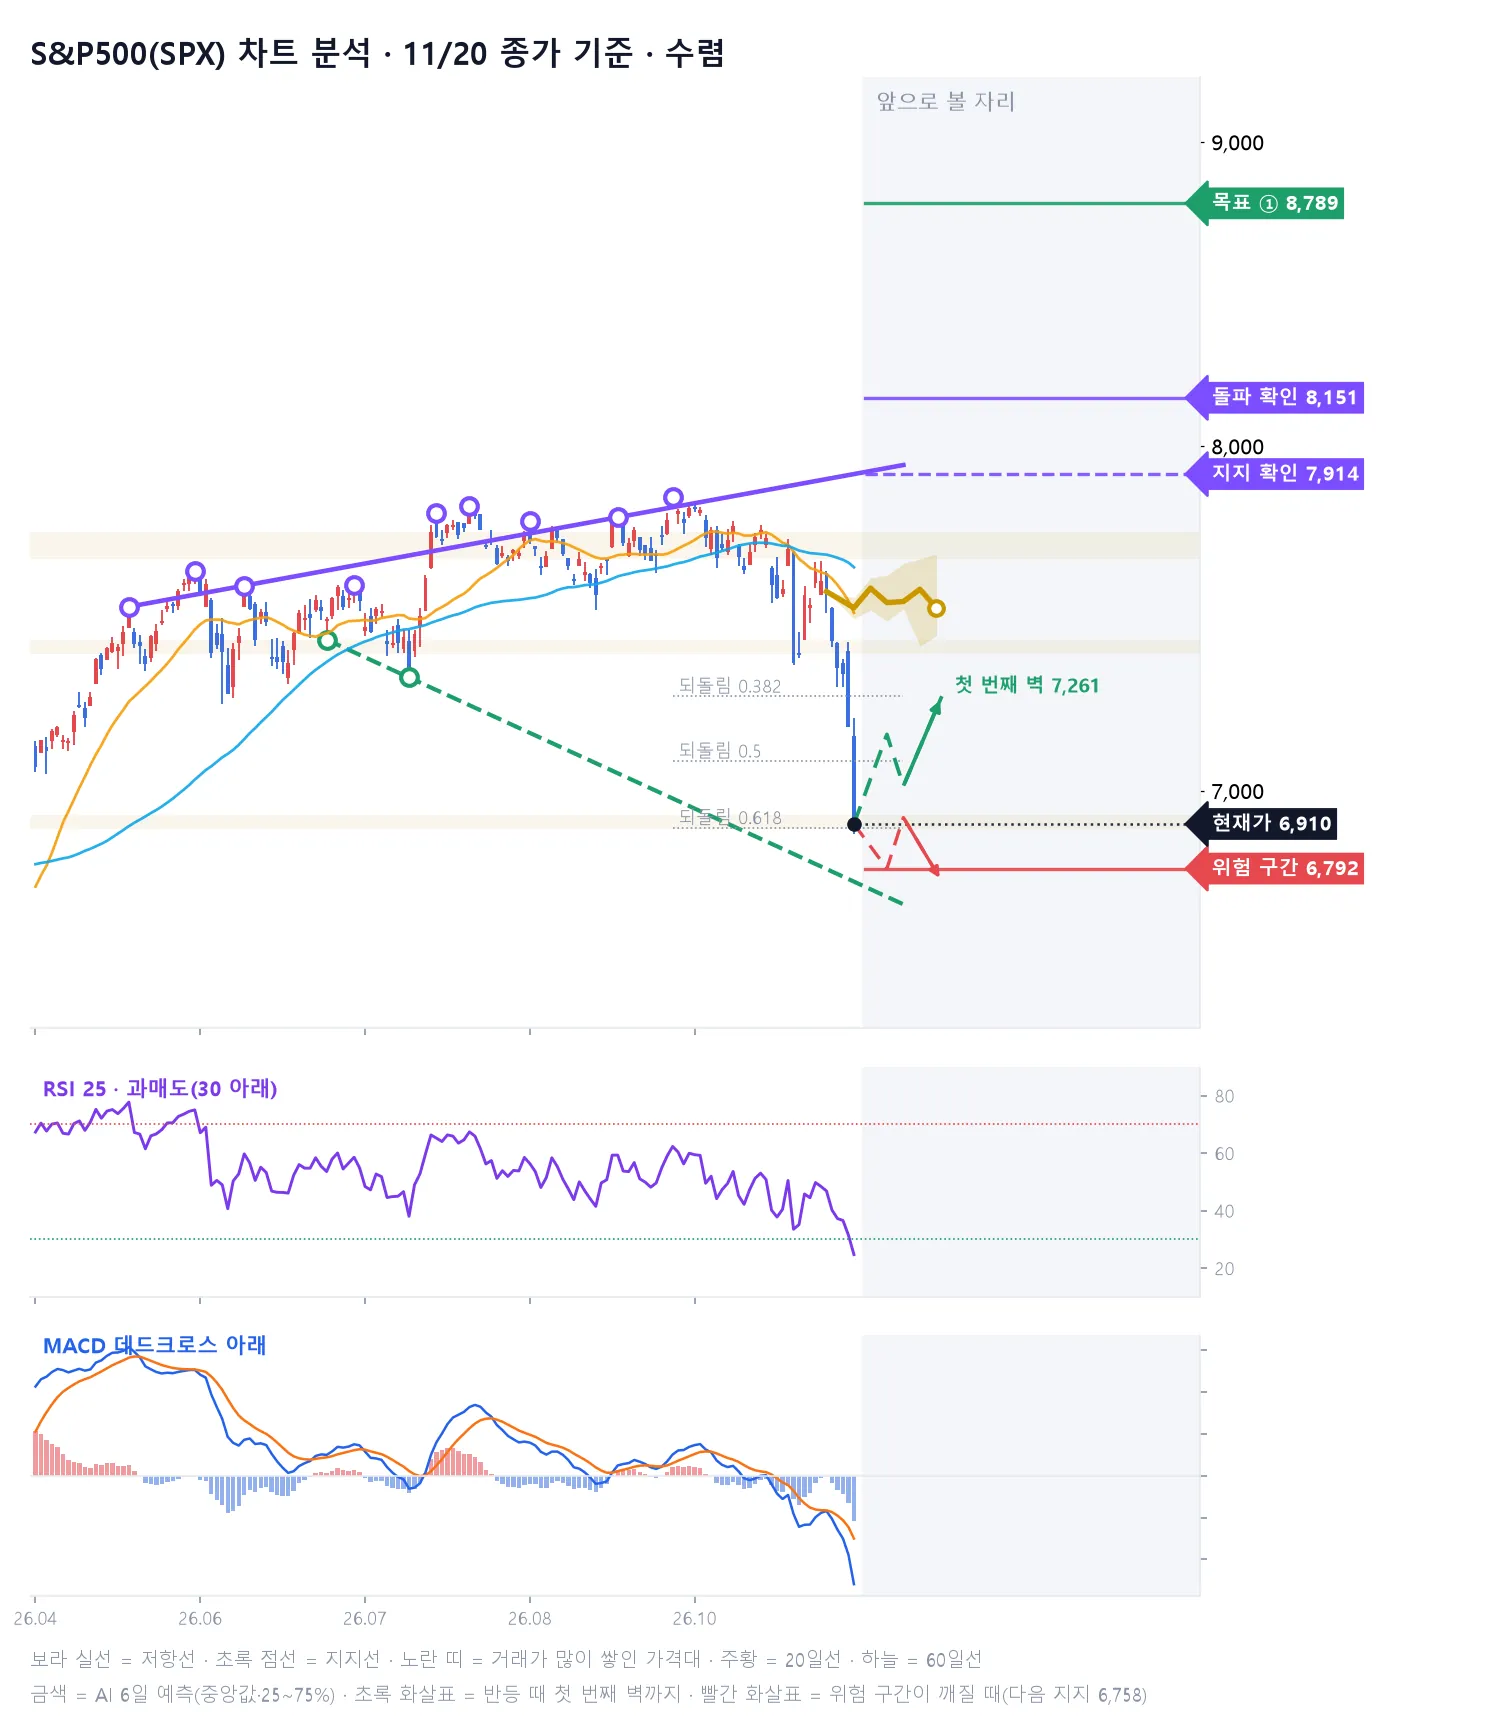
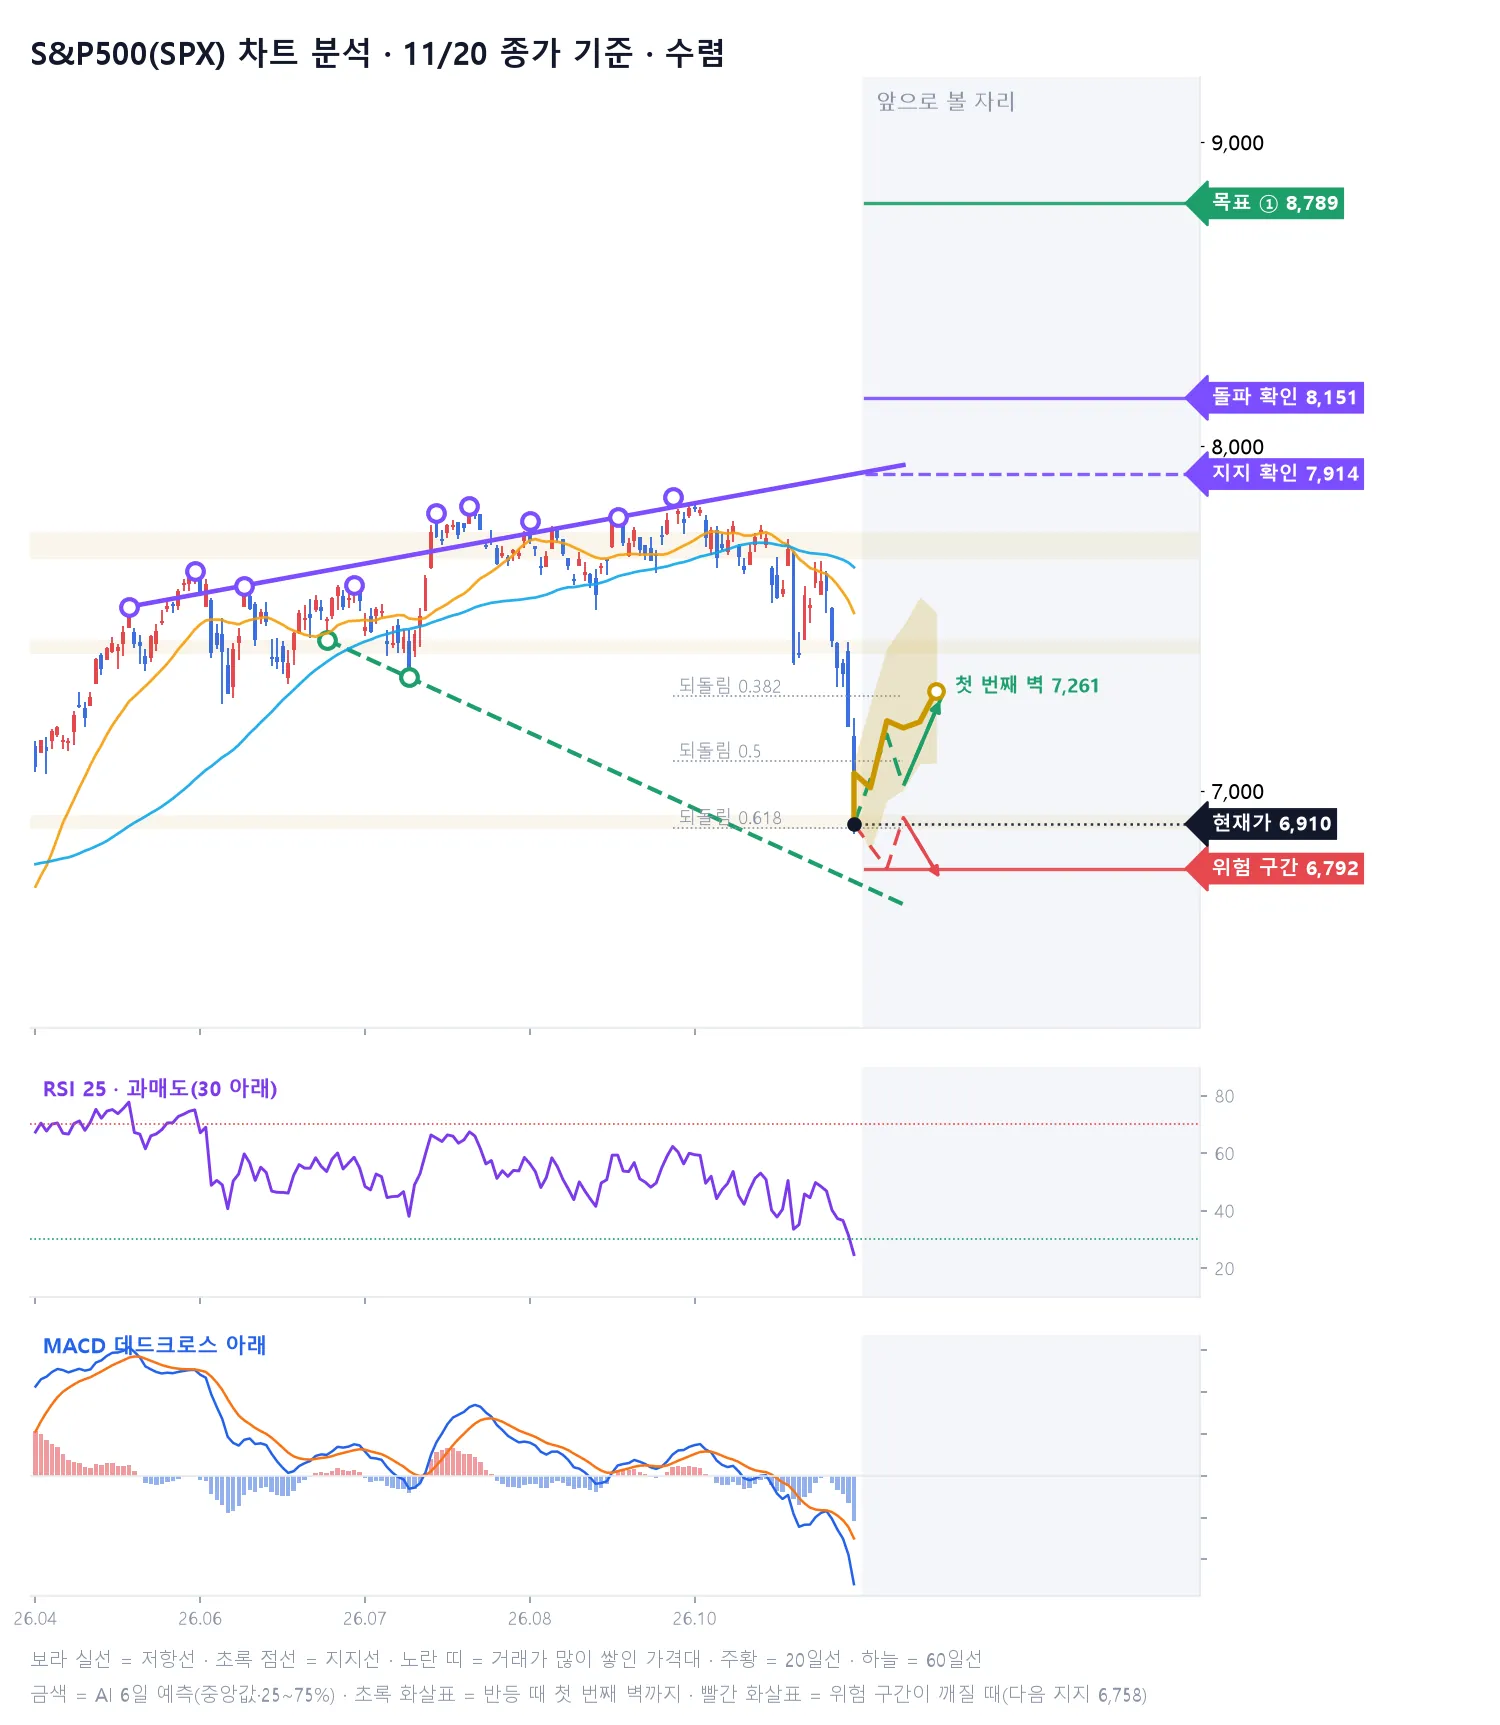
S&P500 무료 페이지: 11/14 예측 → 11/21 최신 예측으로 다시 만듦

Changed region(s): [[0.552, 0.3072, 0.644, 0.4916]]

diff --git a/s/SP500/index.html b/s/SP500/index.html
@@ -3,13 +3,13 @@
 <head>
 <meta charset="utf-8">
 <meta name="viewport" content="width=device-width, initial-scale=1">
-<title>S&amp;P500(SPX) 전망 11/14 · AI 52개 모델 6일 예측 | AI 신호등</title>
-<meta name="description" content="11/14 기준 S&amp;P500(SPX) 다음 거래일 AI 판정은 &#x27;하락&#x27;. 52개 모델 중 상승 6 · 하락 42. 6일 뒤 예측 중앙값 -0.6%. 52개 예측 모델의 6일 가격 흐름을 신호등으로 정리했어요.">
+<title>S&amp;P500(SPX) 전망 11/21 · AI 52개 모델 6일 예측 | AI 신호등</title>
+<meta name="description" content="11/21 기준 S&amp;P500(SPX) 다음 거래일 AI 판정은 &#x27;상승&#x27;. 52개 모델 중 상승 40 · 하락 10. 6일 뒤 예측 중앙값 +5.3%. 52개 예측 모델의 6일 가격 흐름을 신호등으로 정리했어요.">
 <link rel="canonical" href="https://www.ai-sinhodeung.co.kr/s/SP500/">
 <meta property="og:type" content="article">
 <meta property="og:site_name" content="AI 신호등">
-<meta property="og:title" content="S&amp;P500(SPX) 전망 11/14 · AI 52개 모델 6일 예측 | AI 신호등">
-<meta property="og:description" content="11/14 기준 S&amp;P500(SPX) 다음 거래일 AI 판정은 &#x27;하락&#x27;. 52개 모델 중 상승 6 · 하락 42. 6일 뒤 예측 중앙값 -0.6%. 52개 예측 모델의 6일 가격 흐름을 신호등으로 정리했어요.">
+<meta property="og:title" content="S&amp;P500(SPX) 전망 11/21 · AI 52개 모델 6일 예측 | AI 신호등">
+<meta property="og:description" content="11/21 기준 S&amp;P500(SPX) 다음 거래일 AI 판정은 &#x27;상승&#x27;. 52개 모델 중 상승 40 · 하락 10. 6일 뒤 예측 중앙값 +5.3%. 52개 예측 모델의 6일 가격 흐름을 신호등으로 정리했어요.">
 <meta property="og:url" content="https://www.ai-sinhodeung.co.kr/s/SP500/">
 <meta property="og:image" content="https://www.ai-sinhodeung.co.kr/assets/og-image.png">
 <meta property="og:locale" content="ko_KR">
@@ -76,7 +76,7 @@
 .ca-g.npn { border-color: #C99700 !important; background: #FFF8E1; } .ca-g.npn b { color: #A87E00 !important; }
 .ca-flash { animation: caf 1.6s ease-out; } @keyframes caf { 0%, 40% { box-shadow: 0 0 0 3px #C99700; } 100% { box-shadow: 0 0 0 0 transparent; } }
 </style>
-<script type="application/ld+json">{"@context": "https://schema.org", "@type": "Article", "headline": "S&P500(SPX) 전망 11/14 · AI 52개 모델 6일 예측 | AI 신호등", "description": "11/14 기준 S&P500(SPX) 다음 거래일 AI 판정은 '하락'. 52개 모델 중 상승 6 · 하락 42. 6일 뒤 예측 중앙값 -0.6%. 52개 예측 모델의 6일 가격 흐름을 신호등으로 정리했어요.", "dateModified": "2026-11-14", "inLanguage": "ko", "url": "https://www.ai-sinhodeung.co.kr/s/SP500/", "publisher": {"@type": "Organization", "name": "AI 신호등", "url": "https://www.ai-sinhodeung.co.kr"}}</script>
+<script type="application/ld+json">{"@context": "https://schema.org", "@type": "Article", "headline": "S&P500(SPX) 전망 11/21 · AI 52개 모델 6일 예측 | AI 신호등", "description": "11/21 기준 S&P500(SPX) 다음 거래일 AI 판정은 '상승'. 52개 모델 중 상승 40 · 하락 10. 6일 뒤 예측 중앙값 +5.3%. 52개 예측 모델의 6일 가격 흐름을 신호등으로 정리했어요.", "dateModified": "2026-11-21", "inLanguage": "ko", "url": "https://www.ai-sinhodeung.co.kr/s/SP500/", "publisher": {"@type": "Organization", "name": "AI 신호등", "url": "https://www.ai-sinhodeung.co.kr"}}</script>
 </head>
 <body class="home landing">
 <header class="topbar">
@@ -89,41 +89,41 @@
 
 <main class="pk">
   <section class="pk-hero on-night">
-    <small>미국 주식 · 11/14 예측 · AI 모델 52개</small>
+    <small>미국 주식 · 11/21 예측 · AI 모델 52개</small>
     <h1>S&amp;P500(SPX) 전망</h1>
   </section>
 
   <section class="card">
     <div class="pk-verdict">
-      <div class="lamp dn" aria-hidden="true"><i></i><i></i><i></i></div>
+      <div class="lamp up" aria-hidden="true"><i></i><i></i><i></i></div>
       <div><small style="color:var(--muted);font-size:12.5px">다음 거래일(D+1) AI 판정</small><br>
-        <b class="v-dn">하락</b><br><span>52개 모델 중 상승 6 · 하락 42</span></div>
+        <b class="v-up">상승</b><br><span>52개 모델 중 상승 40 · 하락 10</span></div>
     </div>
-    <p style="margin:10px 0 0;color:var(--sub);font-size:14px">참고: 박스권 횡보</p>
+    
   </section>
 
   <section class="card">
     <h3 style="margin-bottom:6px">6일 예측 흐름</h3>
-    <p class="hint" style="margin:0 0 10px;font-size:13px">기준가 7,562$ · 6일 뒤 예측 중앙값 <b class="v-dn">-0.6%</b></p>
+    <p class="hint" style="margin:0 0 10px;font-size:13px">기준가 6,910$ · 6일 뒤 예측 중앙값 <b class="v-up">+5.3%</b></p>
     <svg viewBox="0 0 520 300" role="img" aria-label="최근 8일 종가와 앞으로 6일 예측 범위" class="pk-chart">
   <line x1="277.1" y1="30" x2="277.1" y2="266" stroke="#C5CAD6" stroke-dasharray="4 4"/>
-  <polygon points="277.1,123.4 315.2,134.9 353.4,99.0 391.5,94.8 429.7,73.3 467.8,65.1 506.0,56.7 506.0,201.6 467.8,219.0 429.7,153.9 391.5,176.0 353.4,156.5 315.2,171.7 277.1,123.4" fill="#2463EB" fill-opacity=".14"/>
-  <polyline points="10.0,46.3 48.2,249.7 86.3,235.7 124.5,130.5 162.6,148.1 200.8,88.3 238.9,104.7 277.1,123.4" fill="none" stroke="#12182B" stroke-width="2.4" stroke-linejoin="round"/>
-  <polyline points="277.1,123.4 315.2,152.4 353.4,117.3 391.5,143.1 429.7,141.2 467.8,119.4 506.0,152.5" fill="none" stroke="#2463EB" stroke-width="3" stroke-linejoin="round"/>
-  <circle cx="277.1" cy="123.4" r="4.5" fill="#12182B"/>
-  <circle cx="506.0" cy="152.5" r="6" fill="#fff" stroke="#2463EB" stroke-width="3"/>
-  <text x="506" y="20" text-anchor="end" font-size="18" font-weight="700" fill="#2463EB">6일 뒤 -0.6%</text>
-  <text x="10" y="290" font-size="15" fill="#8A93A6">11-04</text>
-  <text x="277.1" y="290" font-size="15" fill="#12182B" text-anchor="middle" font-weight="600">11-13 기준</text>
-  <text x="506" y="290" font-size="15" fill="#8A93A6" text-anchor="end">11-19</text>
+  <polygon points="277.1,230.7 315.2,186.1 353.4,144.7 391.5,104.0 429.7,86.9 467.8,65.4 506.0,76.9 506.0,187.7 467.8,188.2 429.7,206.6 391.5,214.2 353.4,249.7 315.2,226.7 277.1,230.7" fill="#E5383B" fill-opacity=".14"/>
+  <polyline points="10.0,46.3 48.2,53.3 86.3,61.3 124.5,99.0 162.6,118.8 200.8,123.2 238.9,161.6 277.1,230.7" fill="none" stroke="#12182B" stroke-width="2.4" stroke-linejoin="round"/>
+  <polyline points="277.1,230.7 315.2,194.9 353.4,205.3 391.5,157.4 429.7,162.5 467.8,158.1 506.0,135.3" fill="none" stroke="#E5383B" stroke-width="3" stroke-linejoin="round"/>
+  <circle cx="277.1" cy="230.7" r="4.5" fill="#12182B"/>
+  <circle cx="506.0" cy="135.3" r="6" fill="#fff" stroke="#E5383B" stroke-width="3"/>
+  <text x="506" y="20" text-anchor="end" font-size="18" font-weight="700" fill="#E5383B">6일 뒤 +5.3%</text>
+  <text x="10" y="290" font-size="15" fill="#8A93A6">11-11</text>
+  <text x="277.1" y="290" font-size="15" fill="#12182B" text-anchor="middle" font-weight="600">11-20 기준</text>
+  <text x="506" y="290" font-size="15" fill="#8A93A6" text-anchor="end">11-26</text>
 </svg>
-    <div class="pk-legend"><span><i style="background:#12182B"></i>실제 종가</span><span><i style="background:#2463EB"></i>모델 예측 중앙값</span><span><i style="background:#2463EB;height:8px;opacity:.2"></i>모델 25~75% 범위</span></div>
+    <div class="pk-legend"><span><i style="background:#12182B"></i>실제 종가</span><span><i style="background:#E5383B"></i>모델 예측 중앙값</span><span><i style="background:#E5383B;height:8px;opacity:.2"></i>모델 25~75% 범위</span></div>
   </section>
 
 
   <section class="card pk-cta">
     <b style="font-size:17px">📐 차트로 보면 어떤 자리일까?</b>
-    <p style="font-size:15px;color:var(--ink)">📊 차트 신호 점수 <b style="color:#8A93A6">34점 · 약</b> · AI 포함 <b style="color:#8A93A6">27점 · 약</b></p>
+    <p style="font-size:15px;color:var(--ink)">📊 차트 신호 점수 <b style="color:#8A93A6">34점 · 약</b> · AI 포함 <b style="color:#C99700">47점 · 중</b></p>
     <button class="btn big" type="button" onclick="var c=document.getElementById('ca');c.classList.toggle('open');this.textContent=c.classList.contains('open')?'차트 분석 접기':'📐 차트 분석 보기';if(c.classList.contains('open')){c.scrollIntoView({behavior:'smooth'});try{Portal.track('pick_chart')}catch(e){}}">📐 차트 분석 보기</button>
     <p>추세선·지지선·피보나치·거래가 몰린 가격대를 자동으로 그려서, 앞으로 볼 자리를 정리했어요</p>
   </section>
@@ -138,14 +138,14 @@
     <div class="ca-score">
       <h4 style="margin:0 0 8px">📊 차트 신호 점검</h4>
       <h4 style="margin:4px 0 0">🔎 패턴 점검</h4><div class="ca-grid"><div class="ca-g" data-k="이동평균" style="border-color:#3B6FE0"><span>이동평균</span><b style="color:#3B6FE0">역배열</b></div><div class="ca-g off" data-k="역헤드앤숄더" style=""><span>역헤드앤숄더</span><b style="color:#9AA3B5">아님</b></div><div class="ca-g off" data-k="헤드앤숄더" style=""><span>헤드앤숄더</span><b style="color:#9AA3B5">아님</b></div><div class="ca-g off" data-k="컵앤핸들" style=""><span>컵앤핸들</span><b style="color:#9AA3B5">아님</b></div><div class="ca-g off" data-k="이중 바닥(W)" style=""><span>이중 바닥(W)</span><b style="color:#9AA3B5">아님</b></div><div class="ca-g off" data-k="이중 천장(M)" style=""><span>이중 천장(M)</span><b style="color:#9AA3B5">아님</b></div><div class="ca-g off" data-k="하락쐐기" style=""><span>하락쐐기</span><b style="color:#9AA3B5">아님</b></div><div class="ca-g off" data-k="상승쐐기" style=""><span>상승쐐기</span><b style="color:#9AA3B5">아님</b></div></div><small style="color:var(--muted);font-size:12px">가능성 = 모양이 만들어지는 중 · 정해 둔 규칙에 맞을 때만 표시해요</small><h4 style="margin:10px 0 0">🧩 매매 패턴 <small style="font-weight:400;color:var(--muted);font-size:12px">5년 검증에서 통한 4가지</small></h4><div class="ca-grid"><div class="ca-g off" data-k="3 Tight Closes"><span>3 Tight Closes</span><b>아님</b></div><div class="ca-g off" data-k="상승 페넌트"><span>상승 페넌트</span><b>아님</b></div><div class="ca-g off" data-k="상승 깃발"><span>상승 깃발</span><b>아님</b></div><div class="ca-g off" data-k="과장 상승 다이버전스"><span>과장 상승 다이버전스</span><b>아님</b></div></div>
-      <div class="ca-scs"><div class="ca-sc"><small>차트만 본 점수</small><b style="color:#8A93A6">34</b><span style="background:#8A93A6">약</span></div><div class="ca-sc"><small>AI 예측까지 넣은 점수</small><b style="color:#8A93A6">27</b><span style="background:#8A93A6">약</span></div></div>
+      <div class="ca-scs"><div class="ca-sc"><small>차트만 본 점수</small><b style="color:#8A93A6">34</b><span style="background:#8A93A6">약</span></div><div class="ca-sc"><small>AI 예측까지 넣은 점수</small><b style="color:#C99700">47</b><span style="background:#C99700">중</span></div></div>
       <div class="ca-chips"><span class="ca-chip">⚪ 수렴 · 형성 중</span></div>
       <ul class="ca-ck"><li>▫ 반전 첫 신호(저점 상승)</li><li>▫ 전고 돌파(추세 완성)</li><li>▫ 거래량 1.5배</li><li>▫ 상승 다이버전스</li><li>✅ 하락 다이버전스 없음</li><li>▫ 큰 상승(깃대) +50%</li><li>✅ 되돌림 0.618 안</li></ul>
       <ul class="ca-warn"><li>⚠ 시장: 60일선 아래 역배열</li></ul>
       <small style="color:var(--muted);font-size:12px">모양 10/40 · 점검표 12/42 · 시장 12/18 · AI 넣은 점수 = 차트×0.8 + AI 판정(상승 20·혼돈 10·하락 0) · 70↑ 강 · 40~69 중 · 40↓ 약<br>
       조건이 몇 개 맞는지 센 점수예요. 앞으로 오를 확률이 아니에요.</small>
     </div>
-    <div class="ca-combo"><b>🤖 AI 예측과 같이 보면</b><br>다음 거래일 AI 판정 &#x27;하락&#x27;. AI 6일 예측 중앙값은 -0.6%(7,514)로, 저항선(7,914)까지는 못 미쳐요 → 당분간은 돌파보다 아래 지지 자리를 지키는지 보는 구간이에요.</div>
+    <div class="ca-combo"><b>🤖 AI 예측과 같이 보면</b><br>다음 거래일 AI 판정 &#x27;상승&#x27;. AI 6일 예측 중앙값은 +5.3%(7,277)로, 저항선(7,914)까지는 못 미쳐요 → 당분간은 돌파보다 아래 지지 자리를 지키는지 보는 구간이에요.</div>
     <div><h4 style="margin:0 0 8px">앞으로 볼 자리</h4><div class="ca-lv"><div class="goal"><b>목표 구간 ③</b><span>11,844$</span><small>피보 3.618</small></div><div class="goal"><b>목표 구간 ②</b><span>10,316$</span><small>피보 2.618</small></div><div class="goal"><b>목표 구간 ①</b><span>8,789$</span><small>피보 1.618</small></div><div class="watch"><b>돌파 확인 자리</b><span>8,151$</span><small>종가가 저항선보다 3% 넘게 위에서 마감 (돌파 뒤 7,676 아래로 다시 마감하면 돌파 실패)</small></div><div class="watch"><b>지지 확인 자리</b><span>7,914$</span><small>돌파 뒤 저항선이 받쳐 주는지</small></div><div class="risk"><b>위험 구간</b><span>6,792$</span><small>지금 가격 아래 지지선. 이 아래로 마감하면 하락 흐름이 이어질 수 있어요 — 깨지면 다음 지지 6,758까지 열려 있어요</small></div></div></div>
     <div><h4 style="margin:0 0 6px">해석</h4><ul><li>지금 가격은 저항선보다 15% 아래예요. 아직 돌파를 말하기엔 거리가 있어요.</li><li>직전 큰 상승의 0.63만큼만 되돌린 상태 — 0.618 안이라 상승 흐름 속 조정으로 봐요.</li><li>아래에서 받쳐 줄 자리: 6,792 / 6,758</li><li>나스닥100 지수 상태: 60일선 아래 역배열 → 시장 전체가 약해서 돌파가 나와도 한 번 더 확인이 필요해요</li></ul></div>
     <p class="pk-note" style="text-align:left">차트 모양을 규칙대로 자동 분석한 참고 자료예요. 특정 가격에 사고팔라는 권유가 아니며, 가격이 어느 자리에 있는지 보는 용도로만 써 주세요.</p>
